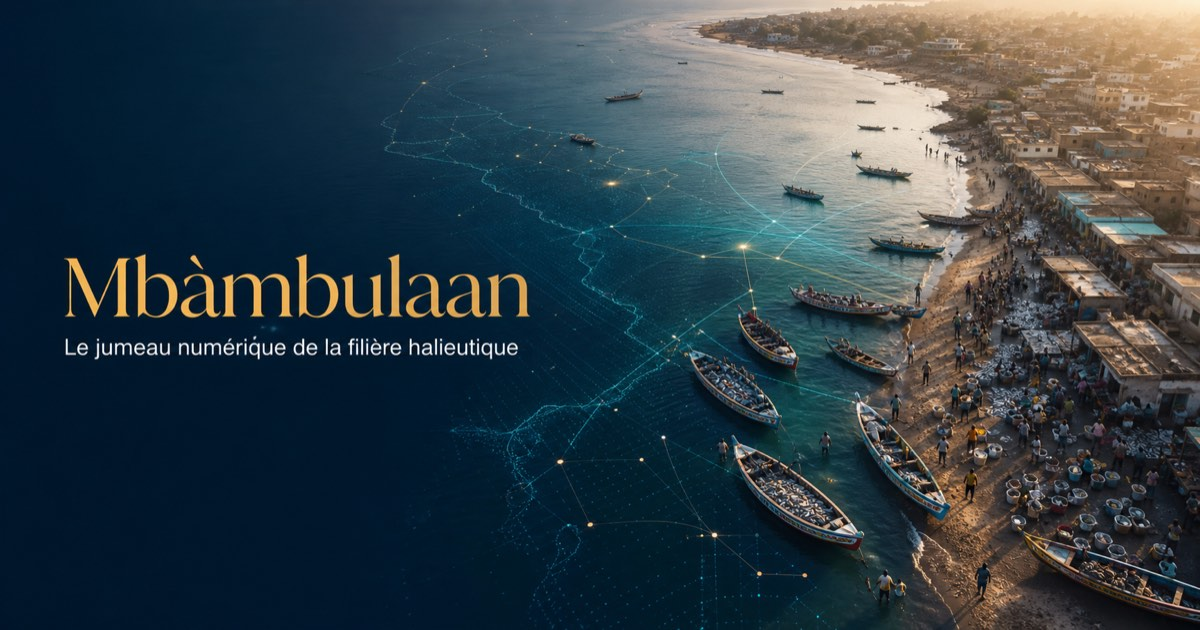
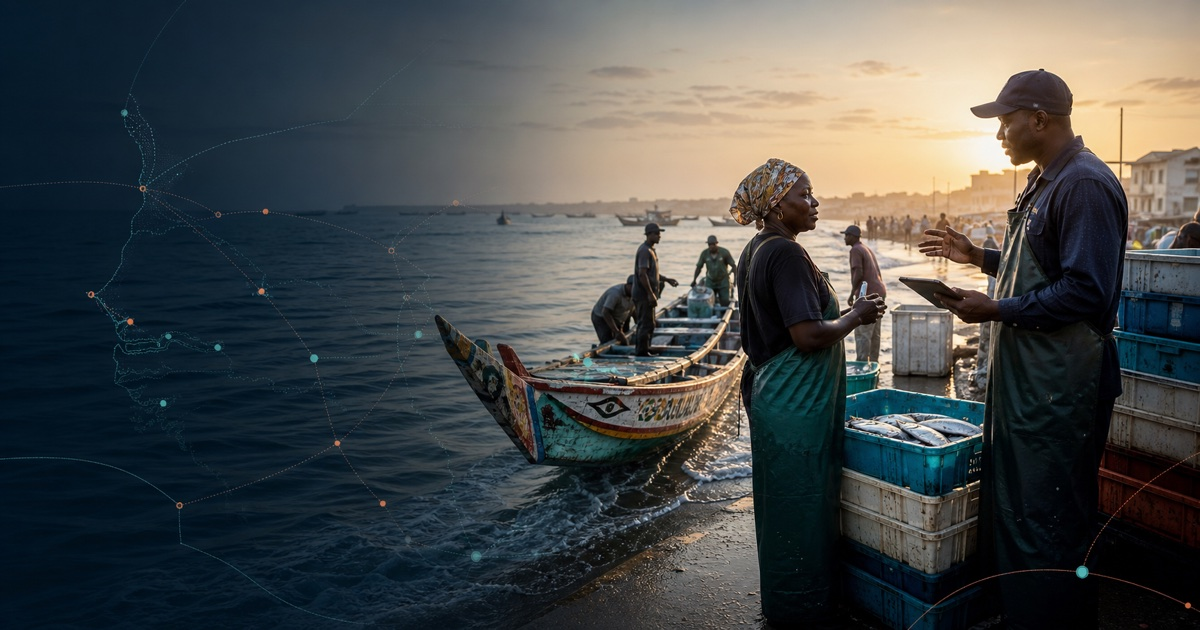
perf: optimize social sharing asset

diff --git a/src/app/layout.tsx b/src/app/layout.tsx
@@ -22,13 +22,13 @@ export async function generateMetadata(): Promise<Metadata> {
     openGraph: {
       title,
       description,
-      images: [{ url: "/og.png", width: 1731, height: 909, alt: "Mbàmbulaan, infrastructure de coordination de la filière halieutique." }]
+      images: [{ url: "/og.jpg", width: 1200, height: 630, alt: "Mbàmbulaan, infrastructure de coordination de la filière halieutique." }]
     },
     twitter: {
       card: "summary_large_image",
       title,
       description,
-      images: ["/og.png"]
+      images: ["/og.jpg"]
     }
   };
 }
